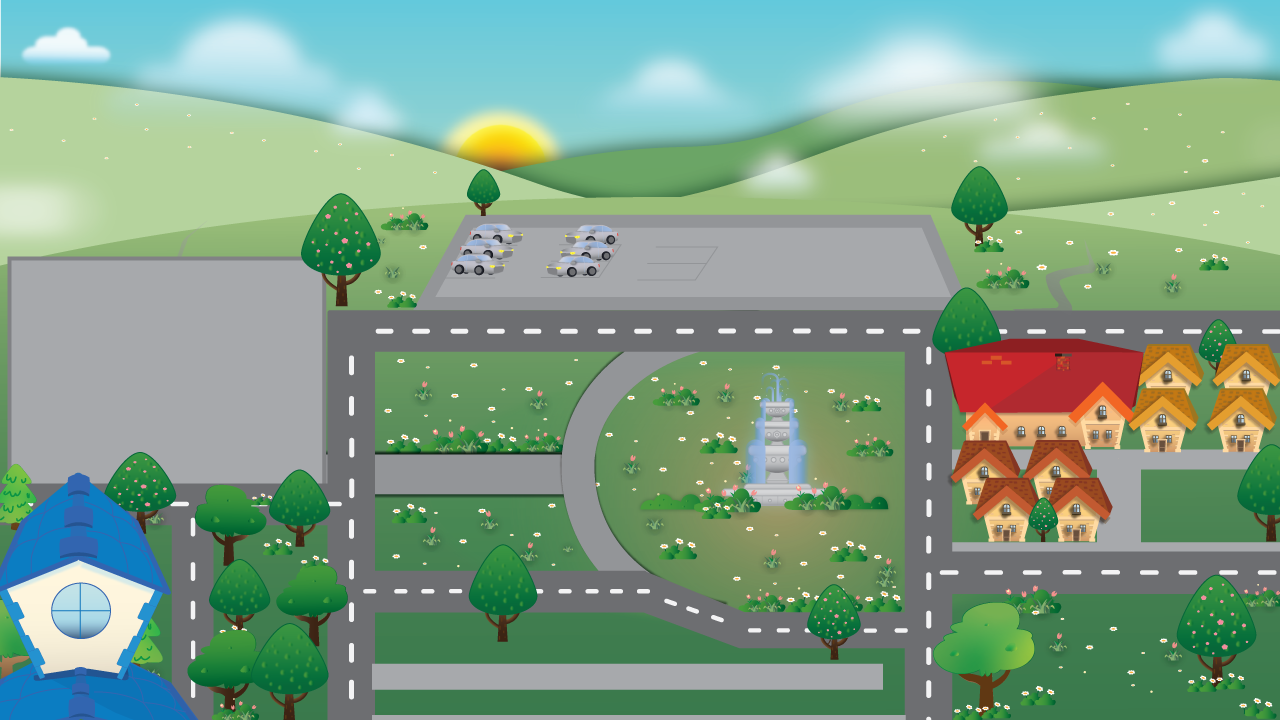
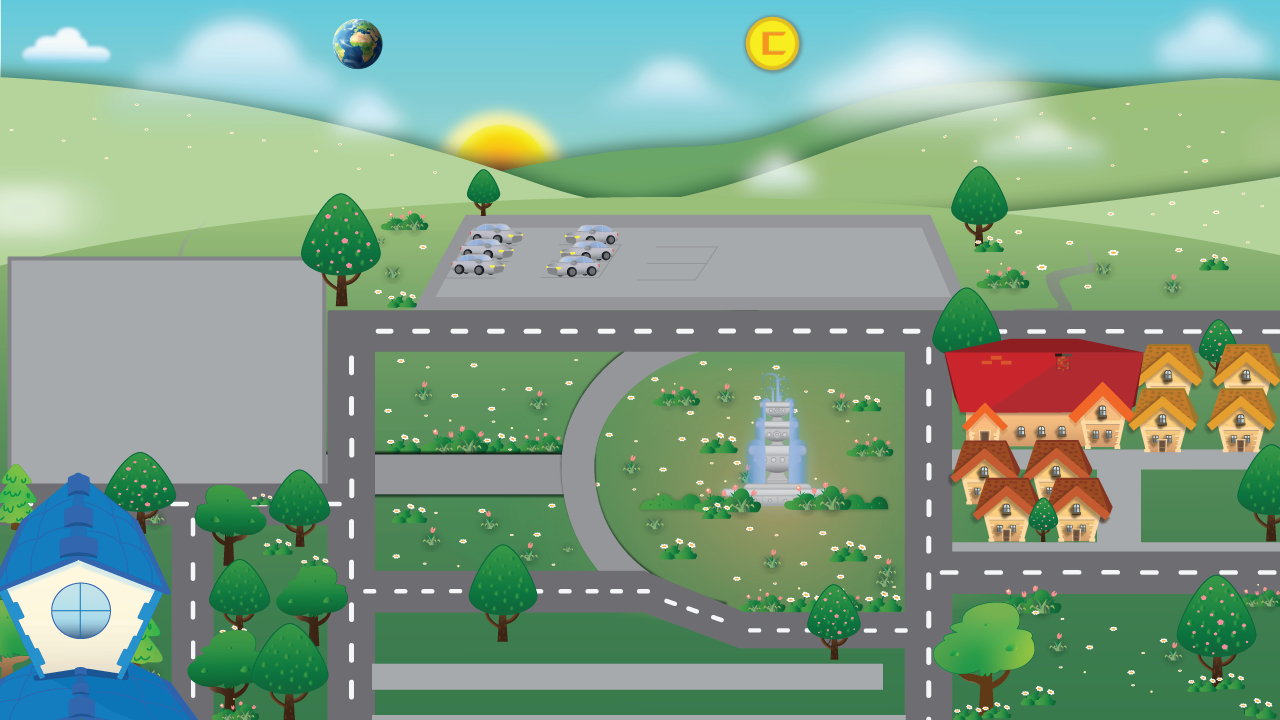
everything is ok

Changed region(s): [[0.5625, 0.0, 0.625, 0.1222], [0.25, 0.0306, 0.3125, 0.0917]]

diff --git a/Ui/UIManager.java b/Ui/UIManager.java
@@ -5,7 +5,10 @@ import java.awt.Font;
 import java.awt.Graphics2D;
 import java.awt.event.MouseEvent;
 import java.awt.event.MouseListener;
+import java.awt.image.BufferedImage;
+import java.io.IOException;
 
+import javax.imageio.ImageIO;
 import javax.swing.ImageIcon;
 import javax.swing.JButton;
 import javax.swing.JLabel;
@@ -18,9 +21,14 @@ import utilz.LoadSave;
 
 public class UIManager extends BackgroundManager {
     JButton restart;
+    JProgressBar progressbar;
+    JProgressBar progressbar1;
+    public BufferedImage playerIm, playerIm1, playerIm2, playerIm3, remem;
+
 
     public UIManager(GamePanel gp) {
         super(gp);
+
         restart = new JButton();
         restart.setVisible(false);
         restart.setBorder(null);
@@ -29,7 +37,6 @@ public class UIManager extends BackgroundManager {
         restart.setSize(restart.getIcon().getIconWidth(), restart.getIcon().getIconHeight());
         restart.setLocation(1150, 620);
         gp.add(restart);
-        UIObj();
         restart.addMouseListener(new MouseListener() {
             @Override
             public void mouseClicked(MouseEvent e) {
@@ -61,19 +68,48 @@ public class UIManager extends BackgroundManager {
         });
     }
 
+    public void loadAsset() {
+        loadPlayer();
+        progressbar = new JProgressBar();
+        progressbar1 = new JProgressBar(JProgressBar.VERTICAL, 0, 100);
+
+        gp.add(progressbar1);
+        gp.add(progressbar);
+
+    }
+
+    public void loadPlayer() {
+        createObject(0, 13, 333, 118, 117, "ui", "face1.png");
+        build[0] = new ImageIcon(LoadSave.GetSprite("ui", "face1.png"));
+        build[1] = new ImageIcon(LoadSave.GetSprite("ui", "face2.png"));
+        build[2] = new ImageIcon(LoadSave.GetSprite("ui", "face3.png"));
+        build[3] = new ImageIcon(LoadSave.GetSprite("ui", "face4.png"));
+    }
+
     public void draw(Graphics2D g2) {
         drawTextworld(g2);
         loadingBar();
-       
+        if (gp.getPlayer().getPlayerEmo() >= 76 && gp.getPlayer().getPlayerEmo() <= 100) {
+            setImageObj(0);
+        }
+        else if (gp.getPlayer().getPlayerEmo() >= 49 && gp.getPlayer().getPlayerEmo() <= 75) {
+            setImageObj(1);
+        }
+        else if (gp.getPlayer().getPlayerEmo() >= 26 && gp.getPlayer().getPlayerEmo() <= 50) {
+            setImageObj(2);
+        }
+        else if (gp.getPlayer().getPlayerEmo() >= 1 && gp.getPlayer().getPlayerEmo() <= 25) {
+            setImageObj(3);
+        }
     }
 
     public void checkObj(boolean show) {
         for (JLabel o : obj) {
             if (o != null) {
-                if (show)
-                    o.setVisible(true);
-                else
+                if (gp.getgameState() != GameState.Gameplay)
                     o.setVisible(false);
+                else
+                    o.setVisible(true);
             }
         }
         if (gp.getgameState() == GameState.Gameplay) {
@@ -141,35 +177,6 @@ public class UIManager extends BackgroundManager {
         g2.drawString(text, x, y);
     }
 
-    public void UIObj() {
-        // g2.drawImage(LoadSave.GetSprite("ui", "coin_c.png"), 745, 15, 59, 59, null);
-        // createObject(0, 745, 15 , 59, 59, "ui", "coin_c.png");
-        // g2.drawImage(LoadSave.GetSprite("ui", "earth_val.png"), 377, 19, 303, 64, null);
-        createObject(6,745, 15, 60, 60, "ui", "Asset 163.png");
-        createObject(5, 130, 20, 64, 72, "ui", "bag1.png");
-        // createObject(1, 377, 19, 303, 64, "ui", "earth_val.png");
-        createObject(2, 310, -3, 95, 94, "ui", "earth.png");
-        // createObject(3, 30, -1, 74, 244, "ui", "emo_val.png");
-        if (gp.getPlayer().getPlayerEmo() >= 76 && gp.getPlayer().getPlayerEmo() <= 100) {
-            createObject(4, 13, 220, 118, 117, "ui", "face1.png");
-        }
-        else if (gp.getPlayer().getPlayerEmo() >= 49 && gp.getPlayer().getPlayerEmo() <= 75) {
-            createObject(4, 13, 220, 118, 117, "ui", "face2.png");
-        }
-        else if (gp.getPlayer().getPlayerEmo() >= 26 && gp.getPlayer().getPlayerEmo() <= 50) {
-            createObject(4, 13, 220, 118, 117, "ui", "face3.png");
-        }
-        else if (gp.getPlayer().getPlayerEmo() >= 1 && gp.getPlayer().getPlayerEmo() <= 25) {
-            createObject(4, 13, 220, 118, 117, "ui", "face4.png");
-        }
-        createObject(5, 130, 20, 64, 72, "ui", "bag1.png");
-        createObject(6,745, 15, 60, 60, "ui", "Asset 163.png");
-    }
-
-    JProgressBar progressbar = new JProgressBar();
-    JProgressBar progressbar1 = new JProgressBar(JProgressBar.VERTICAL, 0, 100);
-
-
     public void loadingBar() {
         if(gp.getEarth().getEarthHeat() >132){
 
@@ -202,8 +209,7 @@ public class UIManager extends BackgroundManager {
         // System.out.println(target);
         progressbar1.setValue(emo);
         
-        gp.add(progressbar1);
-        gp.add(progressbar);
+        
 
     }
 

diff --git a/main/GamePanel.java b/main/GamePanel.java
@@ -47,11 +47,11 @@ public class GamePanel extends JPanel implements Runnable{
     private EventManager eventManager = new EventManager(this);
     private KeyHandler keyH = new KeyHandler(this);
     public Player player = new Player(this);
-    private UIManager uiMng = new UIManager(this);
     private Summary sum = new Summary(this);
+    private UIManager uiMng = new UIManager(this);
 
     // flexible 
-    int FPS = 240;
+    int FPS = 120;
     
 
     // flexible 
@@ -79,6 +79,11 @@ public class GamePanel extends JPanel implements Runnable{
         for (int i = 0; i < 10; i++) {
             if (events[i] != null) {
                 this.add(events[i].getMenu());
+            }
+        }
+        uiMng.loadAsset();
+        for (int i = 0; i < 10; i++) {
+            if (events[i] != null) {
                 this.add(events[i].getBtn());
             }
         }
@@ -176,7 +181,7 @@ public class GamePanel extends JPanel implements Runnable{
     public void update() { // อะไรที่ต้องการเช็คตลอดเวลา ควรใช้อันนี้
         backg.updateblackground();
         player.update();
-        backg.checkObj(showEvent);
+        // backg.checkObj(showEvent);
 
         uiMng.checkObj(showEvent);
         earth.Checkworld();
@@ -239,7 +244,6 @@ public class GamePanel extends JPanel implements Runnable{
     public EventManager getEventManager() {
         return eventManager;
     }
-
 
     public Player getPlayer() {
         return player;

diff --git a/Ui/BackgroundManager.java b/Ui/BackgroundManager.java
@@ -91,6 +91,10 @@ public class BackgroundManager {
         gp.add(obj[index]);
     }
 
+    public void setImageObj(int i) {
+        obj[0].setIcon(build[i]);
+    }
+
     public void updateblackground(){ //เปลี่ยนพื้นหลังตามเวลา
         if(gp.getEarth().getTime() > 18*60 || gp.getEarth().getTime() <= 5*60 ){
             indexBack = 1;

diff --git a/Player/Player.java b/Player/Player.java
@@ -267,6 +267,10 @@ public class Player {
         this.moveWith = "legs";
     }
 
+    public int getEmotionalDamage() {
+        return emotionalDamage;
+    }
+    
     public void sleep(String n) {
         gp.setgameState(GameState.Summary);
         gp.getSummary().setOKButton(true);
